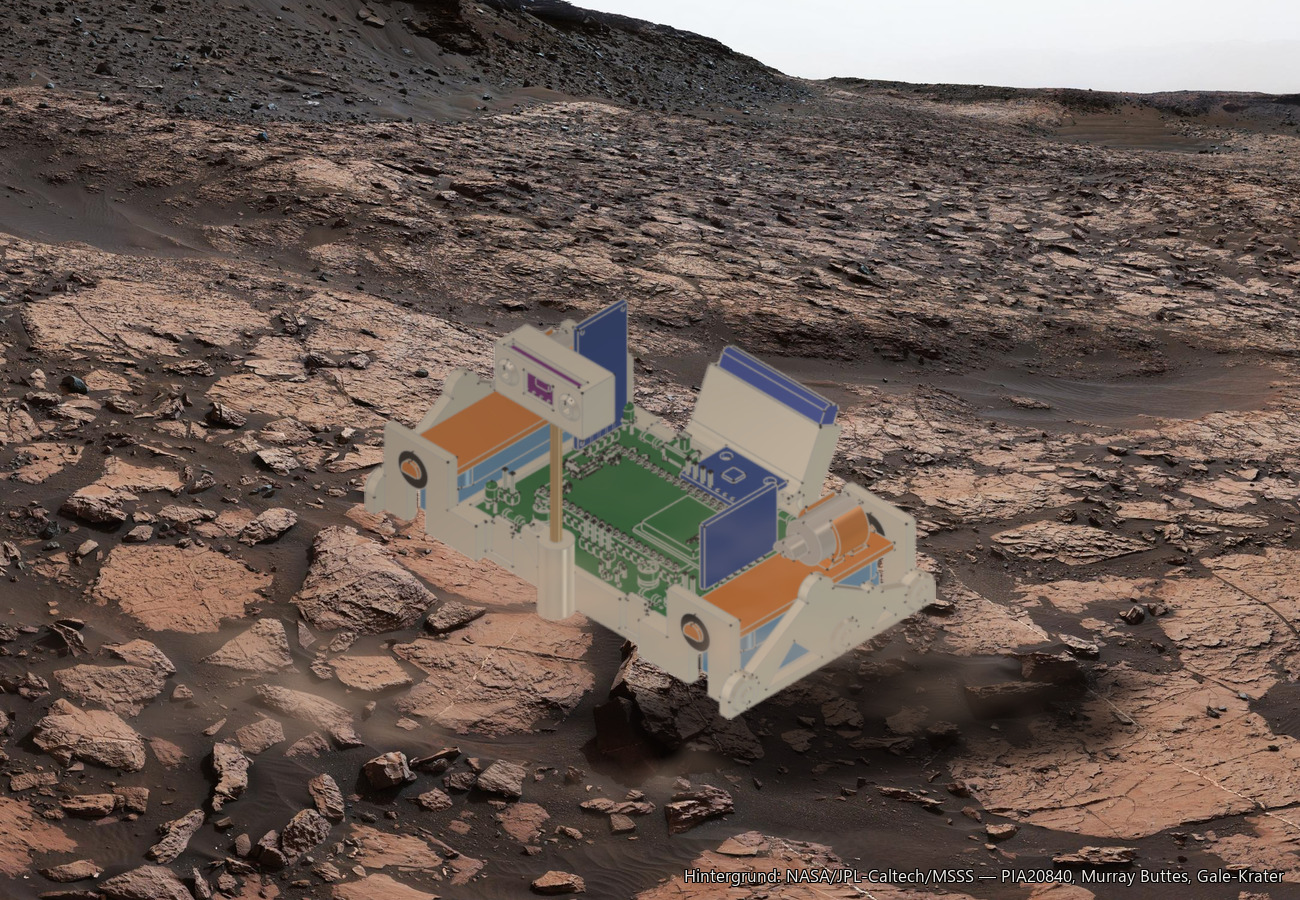
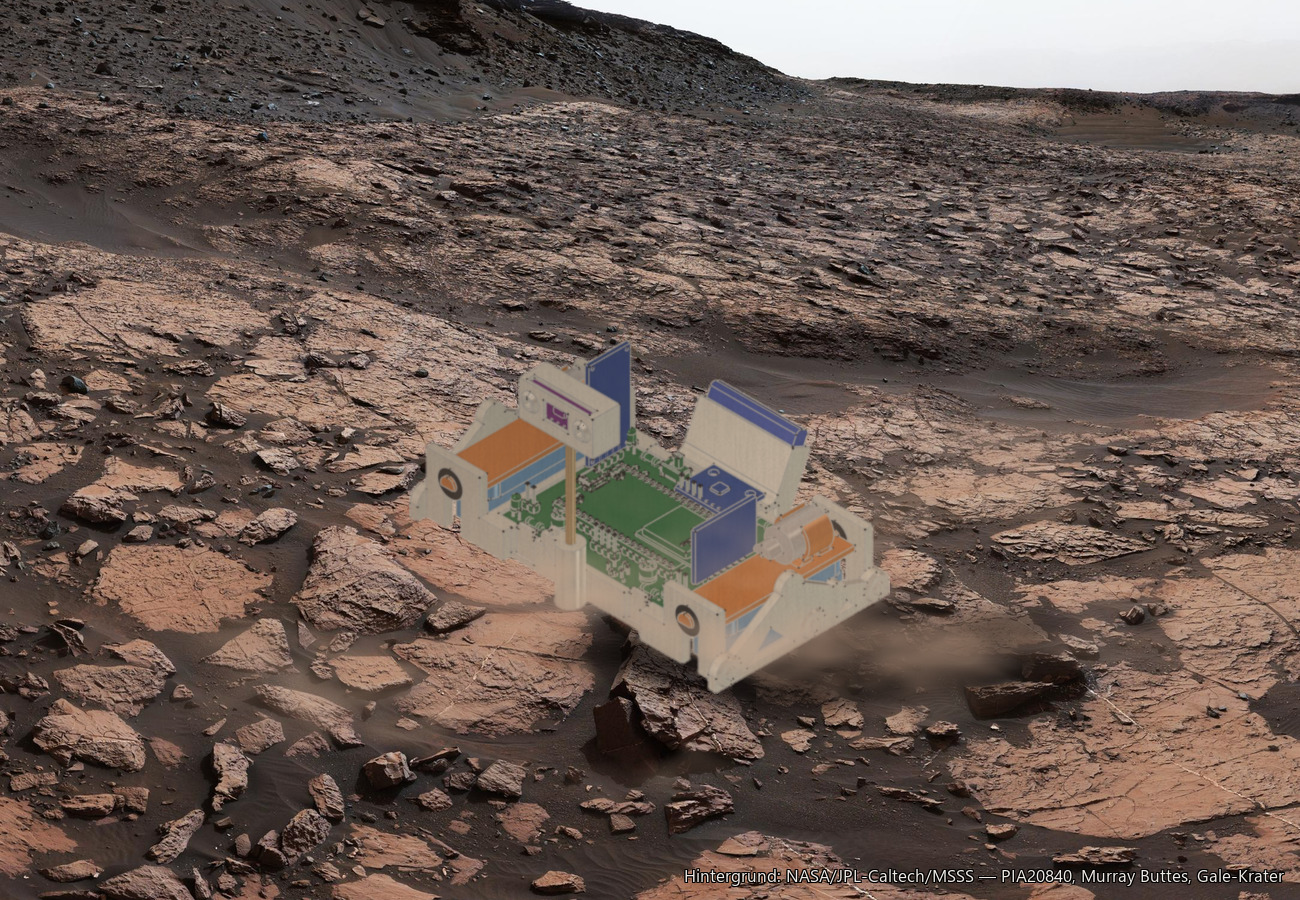
Titelbild: Rover eingesenkt, weiter hinten, Gebrauchsspuren, Staubfahne
Er schwebte, weil er genau auf der Aufstandslinie endete. Echte Fahrzeuge
verschwinden mit den Aufstandspunkten im Sand -- jetzt sitzt er 10,5 % seiner
Hoehe tiefer, der Staub am Fuss deckt den Uebergang. Dazu weiter nach hinten:
37 statt 44 % der Bildbreite, Aufstandslinie von 80 auf 73 % hoch.

Gebrauchsspuren in vier Lagen: Staubfilm (unten dicker, Staub wird von unten
hochgeworfen), in Y gezogene Schlieren, feines Korn, Schmutz in den Fugen.
Die Fugen findet die Differenz zum weichgezeichneten Bild -- wo es dunkler
ist als seine Unschaerfe, sitzt eine Kante. Erster Versuch war zu stark:
jede CAD-Kante bekam einen schwarzen Rand, die Flaechen wurden fleckig wie
Tarnfarbe. Faktor 2,2 -> 0,9, Deckel 0,45 -> 0,15.

Staubfahne hinter dem Rover, als ob er faehrt: er schaut nach links hinten,
der aufgewirbelte Staub bleibt zurueck, zieht nach rechts weg, steigt und
wird duenner und breiter. Wird VOR dem Rover aufgetragen, sonst staende er
darin statt davor. Spitze 0,70 auf 3,4 % der Flaeche.

Rauschen und das Auftragen von Staub stehen jetzt einmal zentral im Skript,
beide Wolken nutzen dieselben Funktionen.

Changed region(s): [[0.2769, 0.3111, 0.9231, 0.8711], [0.8, 0.56, 0.8308, 0.5911]]

diff --git a/Gehaeuse_CAD/montage_marslandschaft.py b/Gehaeuse_CAD/montage_marslandschaft.py
@@ -8,17 +8,41 @@ ZIEL = (1300, 900)
 W, H = ZIEL
 
 # ---------- Stellschrauben ----------
-GROESSE   = 0.44    # Breite des Rovers als Anteil der Bildbreite (kleiner = weiter hinten)
-BODEN     = 0.80    # Hoehe, auf der er aufsetzt (hoeher im Bild = weiter hinten)
+GROESSE   = 0.37    # Breite des Rovers als Anteil der Bildbreite (kleiner = weiter hinten)
+BODEN     = 0.73    # Hoehe, auf der er aufsetzt (kleinerer Wert = weiter hinten)
+EINSINKEN = 0.105   # wieviel er unter die Aufstandslinie rutscht, Anteil seiner Hoehe
 DUNST     = 0.20    # wieviel Hintergrundfarbe in den Rover gemischt wird (Luftperspektive)
 SATT      = 0.80    # Farbigkeit des Rovers (1 = wie gerendert)
+ABNUTZUNG = 0.60    # Staerke der Gebrauchsspuren (0 = fabrikneu)
 WEICH     = 1.6     # Weichzeichnung der Silhouettenkante in Pixeln
 LICHT     = (-1.0, -1.0)   # Sonnenrichtung in Bildkoordinaten: von oben links
-STAUB     = 0.80    # Staerke der Staubwolke
+STAUB     = 0.92    # Staerke der Staubwolke vor dem Rover
+FAHNE     = 0.85    # Staerke der Staubfahne hinter dem Rover
 SCHATTEN  = 0.70    # Tiefe des Wurfschattens: 0,62 = Kern auf 38 % Helligkeit
 SCH_LANG  = 0.34    # Laenge des Wurfschattens, Anteil der Rover-Hoehe
 
 hg = Image.open(os.path.join(SP, "hintergrund.png")).convert("RGB")
+
+
+def gezogen(k, saat, streckung):
+    """Rauschen, in X gestreckt -- das ergibt vom Wind gezogene Schlieren."""
+    r = np.random.default_rng(saat)
+    klein = r.random((max(2, H // k), max(2, int(W / (k * streckung))))).astype(np.float32)
+    g = Image.fromarray((klein * 255).astype(np.uint8), "L").resize((W, H), Image.BICUBIC)
+    return np.asarray(g, dtype=np.float32) / 255.0
+
+
+def staub_auf(bild, maske):
+    """Staub streut das Licht: er nimmt dem Untergrund die Zeichnung UND hellt ihn auf.
+    Beides zusammen laesst ihn erst als Staub lesen, Aufhellen allein wirkt wie ein
+    Schleier ueber dem Bild."""
+    rgb_b = np.asarray(bild.convert("RGB"), dtype=np.float32) / 255.0
+    weich = np.asarray(bild.convert("RGB").filter(ImageFilter.GaussianBlur(7)),
+                       dtype=np.float32) / 255.0
+    m = maske[..., None]
+    rgb_b = rgb_b * (1 - m * 0.85) + weich * (m * 0.85)
+    rgb_b = rgb_b * (1 - m) + np.array([0.80, 0.655, 0.555], dtype=np.float32) * m
+    return Image.fromarray((np.clip(rgb_b, 0, 1) * 255).astype(np.uint8), "RGB")
 
 # ---------- Rover vorbereiten ----------
 rov = Image.open(os.path.join(SP, "rover_freigestellt.png")).convert("RGBA")
@@ -26,7 +50,11 @@ rov = rov.crop(rov.getchannel("A").getbbox())
 bw = int(W * GROESSE)
 bh = int(rov.size[1] * bw / rov.size[0])
 rov = rov.resize((bw, bh), Image.LANCZOS)
-px, py = (W - bw) // 2, int(H * BODEN) - bh
+px = (W - bw) // 2
+# Ein Modell, das genau auf der Aufstandslinie endet, sieht aus, als schwebe es:
+# echte Fahrzeuge verschwinden mit den Aufstandspunkten im Sand. Also ein Stueck
+# darunter setzen, der Staub am Fuss deckt den Uebergang.
+py = int(H * BODEN) - bh + int(bh * EINSINKEN)
 
 rgb = np.asarray(rov.convert("RGB"), dtype=np.float32) / 255.0
 alpha = np.asarray(rov.getchannel("A"), dtype=np.float32) / 255.0
@@ -41,6 +69,38 @@ hell = 1.0 + richt * 0.24                                          # oben links 
 rgb *= hell[..., None]
 rgb *= 0.90                                                        # Mars bekommt weniger Sonne
 rgb *= np.array([1.075, 0.995, 0.885], dtype=np.float32)           # warmer Grundton
+
+# ---------- Gebrauchsspuren ----------
+# Ein CAD-Render hat makellose Flaechen; ein Geraet, das durch Marsstaub faehrt,
+# nicht. Vier Lagen, alle aus demselben Rauschvorrat:
+def feld(k, saat, sx=1.0, sy=1.0):
+    r = np.random.default_rng(saat)
+    klein = r.random((max(2, int(bh / (k * sy))), max(2, int(bw / (k * sx))))).astype(np.float32)
+    g = Image.fromarray((klein * 255).astype(np.uint8), "L").resize((bw, bh), Image.BICUBIC)
+    return np.asarray(g, dtype=np.float32) / 255.0
+
+tief = yy / bh                                        # 0 oben, 1 unten
+staub = np.array([0.72, 0.56, 0.45], dtype=np.float32)
+
+# 1 Staubfilm -- unten dicker als oben, weil Staub von unten hochgeworfen wird
+film = (0.09 + 0.26 * tief) * (0.62 + 0.38 * feld(9, 101)) * ABNUTZUNG
+rgb = rgb * (1 - film[..., None]) + staub * film[..., None]
+
+# 2 Schlieren -- in Y gezogenes Rauschen, wie herabgelaufener Staub
+schlieren = (feld(7, 202, sx=0.3, sy=3.5) - 0.5) * 0.055 * ABNUTZUNG
+rgb *= (1 + schlieren)[..., None]
+
+# 3 feines Korn
+rgb *= (1 + (feld(2, 303) - 0.5) * 0.05 * ABNUTZUNG)[..., None]
+
+# 4 Schmutz in den Fugen: wo das Bild dunkler ist als seine weichgezeichnete
+#   Fassung, liegt eine Kante oder ein Spalt -- dort setzt sich Dreck ab
+g = rgb.mean(-1)
+gw = np.asarray(Image.fromarray((np.clip(g, 0, 1) * 255).astype(np.uint8), "L")
+                .filter(ImageFilter.GaussianBlur(2.5)), dtype=np.float32) / 255.0
+fugen = np.clip(gw - g, 0, 1) * 0.9
+rgb *= (1 - np.clip(fugen, 0, 0.15) * ABNUTZUNG)[..., None]
+rgb = np.clip(rgb, 0, 1)
 
 grau = (rgb * np.array([0.299, 0.587, 0.114], dtype=np.float32)).sum(-1, keepdims=True)
 rgb = grau * (1.0 - SATT) + rgb * SATT
@@ -90,6 +150,25 @@ bg = bg * (1 - 0.10 * s[..., None]) + kuehl * (0.10 * s[..., None])
 bild = Image.fromarray((np.clip(bg, 0, 1) * 255).astype(np.uint8), "RGB").convert("RGBA")
 print("   Schatten: Kern auf %.0f %% Helligkeit, %.1f %% der Flaeche beruehrt"
       % (100 * (1 - s.max() * SCHATTEN), 100.0 * (s > 0.15).mean()))
+# ---------- Staubfahne hinter dem Rover ----------
+# Der Rover schaut nach links hinten, faehrt also dorthin; aufgewirbelter Staub
+# bleibt zurueck und zieht nach rechts weg, steigt dabei und wird duenner.
+# Sie wird VOR dem Rover aufgetragen, damit er davorsteht und nicht darin.
+Y, X = np.mgrid[0:H, 0:W].astype(np.float32)
+basis = H * BODEN
+nf = gezogen(55, 41, 3.6) * 0.55 + gezogen(26, 47, 2.8) * 0.3 + gezogen(11, 53, 2.2) * 0.15
+nf = (nf - nf.min()) / (nf.max() - nf.min())
+x0 = px + bw * 0.72
+d = np.clip(X - x0, 0, None)
+mitte = basis - bh * 0.10 - 0.20 * d                       # die Fahne steigt
+breite = bh * 0.13 + 0.26 * d                              # und wird breiter
+fahne = np.exp(-d / (bw * 1.05)) * np.exp(-((Y - mitte) ** 2) / (2 * breite ** 2))
+fahne *= (X > x0)
+m_fahne = np.clip((nf - 0.40) / 0.45, 0, 1) ** 1.1 * fahne * FAHNE
+m_fahne = np.clip(m_fahne, 0, 0.72)
+print("   Staubfahne: Spitze %.2f, %.1f %% der Flaeche" % (m_fahne.max(), 100.0 * (m_fahne > 0.15).mean()))
+bild = staub_auf(bild, m_fahne).convert("RGBA")
+
 bild.alpha_composite(rov, (px, py))
 
 # ---------- Staubwolke davor ----------
@@ -99,39 +178,21 @@ def rauschen(form, k, saat):
     g = Image.fromarray((klein * 255).astype(np.uint8), "L").resize((form[1], form[0]), Image.BICUBIC)
     return np.asarray(g, dtype=np.float32) / 255.0
 
-def gezogen(k, saat, streckung):
-    """Rauschen, in X gestreckt -- das ergibt vom Wind gezogene Schlieren."""
-    r = np.random.default_rng(saat)
-    klein = r.random((max(2, H // k), max(2, int(W / (k * streckung))))).astype(np.float32)
-    g = Image.fromarray((klein * 255).astype(np.uint8), "L").resize((W, H), Image.BICUBIC)
-    return np.asarray(g, dtype=np.float32) / 255.0
-
 n = (gezogen(70, 3, 3.2) * 0.5 + gezogen(34, 11, 2.6) * 0.32 + gezogen(14, 23, 2.0) * 0.18)
 n = (n - n.min()) / (n.max() - n.min())
 
-Y, X = np.mgrid[0:H, 0:W].astype(np.float32)
-basis = H * BODEN
-hoehe = np.exp(-np.clip(basis - Y, 0, None) ** 2 / (2 * (bh * 0.30) ** 2))   # nach oben auslaufend
-hoehe *= np.exp(-np.clip(Y - basis, 0, None) ** 2 / (2 * (bh * 0.22) ** 2))  # nach unten auslaufend
+hoehe = np.exp(-np.clip(basis - Y, 0, None) ** 2 / (2 * (bh * 0.22) ** 2))   # nach oben auslaufend
+hoehe *= np.exp(-np.clip(Y - basis, 0, None) ** 2 / (2 * (bh * 0.26) ** 2))  # nach unten auslaufend
 # drei Schwaden statt einer gleichmaessigen Wolke
 seite = np.zeros_like(X)
-for mx, br, st in ((0.14, 0.30, 1.00), (0.55, 0.20, 0.70), (0.95, 0.22, 0.38)):
+for mx, br, st in ((0.16, 0.34, 1.00), (0.58, 0.26, 0.82), (0.98, 0.20, 0.34)):
     seite = np.maximum(seite, st * np.exp(-((X - (px + bw * mx)) ** 2) / (2 * (bw * br) ** 2)))
 maske = np.clip((n - 0.46) / 0.40, 0, 1) ** 1.1 * hoehe * seite * STAUB
 maske = np.clip(maske, 0, 0.78)
 print("   Staubmaske: Spitze %.2f, Flaeche ueber 0.2: %.1f%%"
       % (maske.max(), 100.0 * (maske > 0.2).mean()))
 
-# Staub streut das Licht: er nimmt dem Untergrund die Zeichnung UND hellt ihn auf.
-# Beides zusammen laesst ihn erst als Staub lesen, Aufhellen allein wirkt wie ein Schleier.
-b = np.asarray(bild.convert("RGB"), dtype=np.float32) / 255.0
-weich = np.asarray(bild.convert("RGB").filter(ImageFilter.GaussianBlur(7)),
-                   dtype=np.float32) / 255.0
-m = maske[..., None]
-b = b * (1 - m * 0.85) + weich * (m * 0.85)
-staub_farbe = np.array([0.80, 0.655, 0.555], dtype=np.float32)
-b = b * (1 - m) + staub_farbe * m
-bild = Image.fromarray((np.clip(b, 0, 1) * 255).astype(np.uint8), "RGB")
+bild = staub_auf(bild, maske)
 
 # ---------- Quellenangabe ----------
 text = "Hintergrund: NASA/JPL-Caltech/MSSS \u2014 PIA20840, Murray Buttes, Gale-Krater"

diff --git a/00_Projekt-Log.md b/00_Projekt-Log.md
@@ -355,6 +355,9 @@ der Datei einstellbar:
 | hing in der Luft | Wurfschatten nach rechts unten **plus** schmaler Kontaktschatten direkt unter dem Fahrwerk |
 | Schatten zu schwach | er legte eine dunkle Farbe auf — unter dem Rover liegt im Originalfoto aber schon dunkler Boden, dort geht ein Farbfleck unter. Jetzt **multipliziert** er: Kern auf 30 % der vorhandenen Helligkeit, das wirkt auf hellem wie auf dunklem Untergrund. Dazu in Sonnenrichtung geschert und auf 34 % der Rover-Höhe verlängert, damit er als Wurfschatten statt als Fleck liest |
 | wirkte wie ausgeschnitten | 20 % Hintergrundfarbe eingemischt (Luftperspektive) |
+| schwebte weiterhin | er endete genau auf der Aufstandslinie. Echte Fahrzeuge verschwinden mit den Aufstandspunkten im Sand, also sitzt er jetzt **10,5 % seiner Höhe tiefer**; der Staub am Fuß deckt den Übergang |
+| stand zu weit vorn | auf 37 % der Bildbreite verkleinert, Aufstandslinie von 80 auf 73 % hoch — damit liegt Vordergrund vor ihm |
+| Flächen fabrikneu | vier Lagen Gebrauchsspuren: Staubfilm (unten dicker als oben, weil Staub von unten hochgeworfen wird), in Y gezogene Schlieren, feines Korn, und Schmutz in den Fugen — letzterer gefunden über die Differenz zum weichgezeichneten Bild, dort wo es dunkler ist, sitzt eine Kante. Ein erster Versuch war zu stark: jede CAD-Kante bekam einen schwarzen Rand und die Flächen wurden fleckig wie Tarnfarbe. Faktor von 2,2 auf 0,9 und Deckel von 0,45 auf 0,15 |
 
 Dazu eine **Staubwolke davor**: in X gestrecktes Rauschen aus drei Oktaven ergibt
 windgezogene Schlieren, drei Schwaden statt einer gleichmäßigen Wolke. Die
@@ -363,6 +366,11 @@ ihn weggewaschen. Wichtig
 war, dass Staub nicht nur aufhellt, sondern dem Untergrund auch die **Zeichnung
 nimmt** — Aufhellen allein sieht aus wie ein Schleier über dem Bild. Spitzenwert
 der Maske 0,46, betroffen sind 2,7 % der Fläche.
+
+Dazu eine **Staubfahne hinter dem Rover**, als ob er fährt: er schaut nach links
+hinten, fährt also dorthin, und der aufgewirbelte Staub bleibt zurück, zieht nach
+rechts weg, steigt dabei und wird dünner und breiter. Sie wird **vor** dem Rover
+aufgetragen — sonst stünde er darin statt davor. Spitze 0,70 auf 3,4 % der Fläche.
 
 Format JPEG statt PNG: als Fotomontage wäre das PNG 2,1 MB groß, die
 JPEG-Fassung mit Qualität 92 und ohne Chroma-Unterabtastung sind 0,6 MB bei
